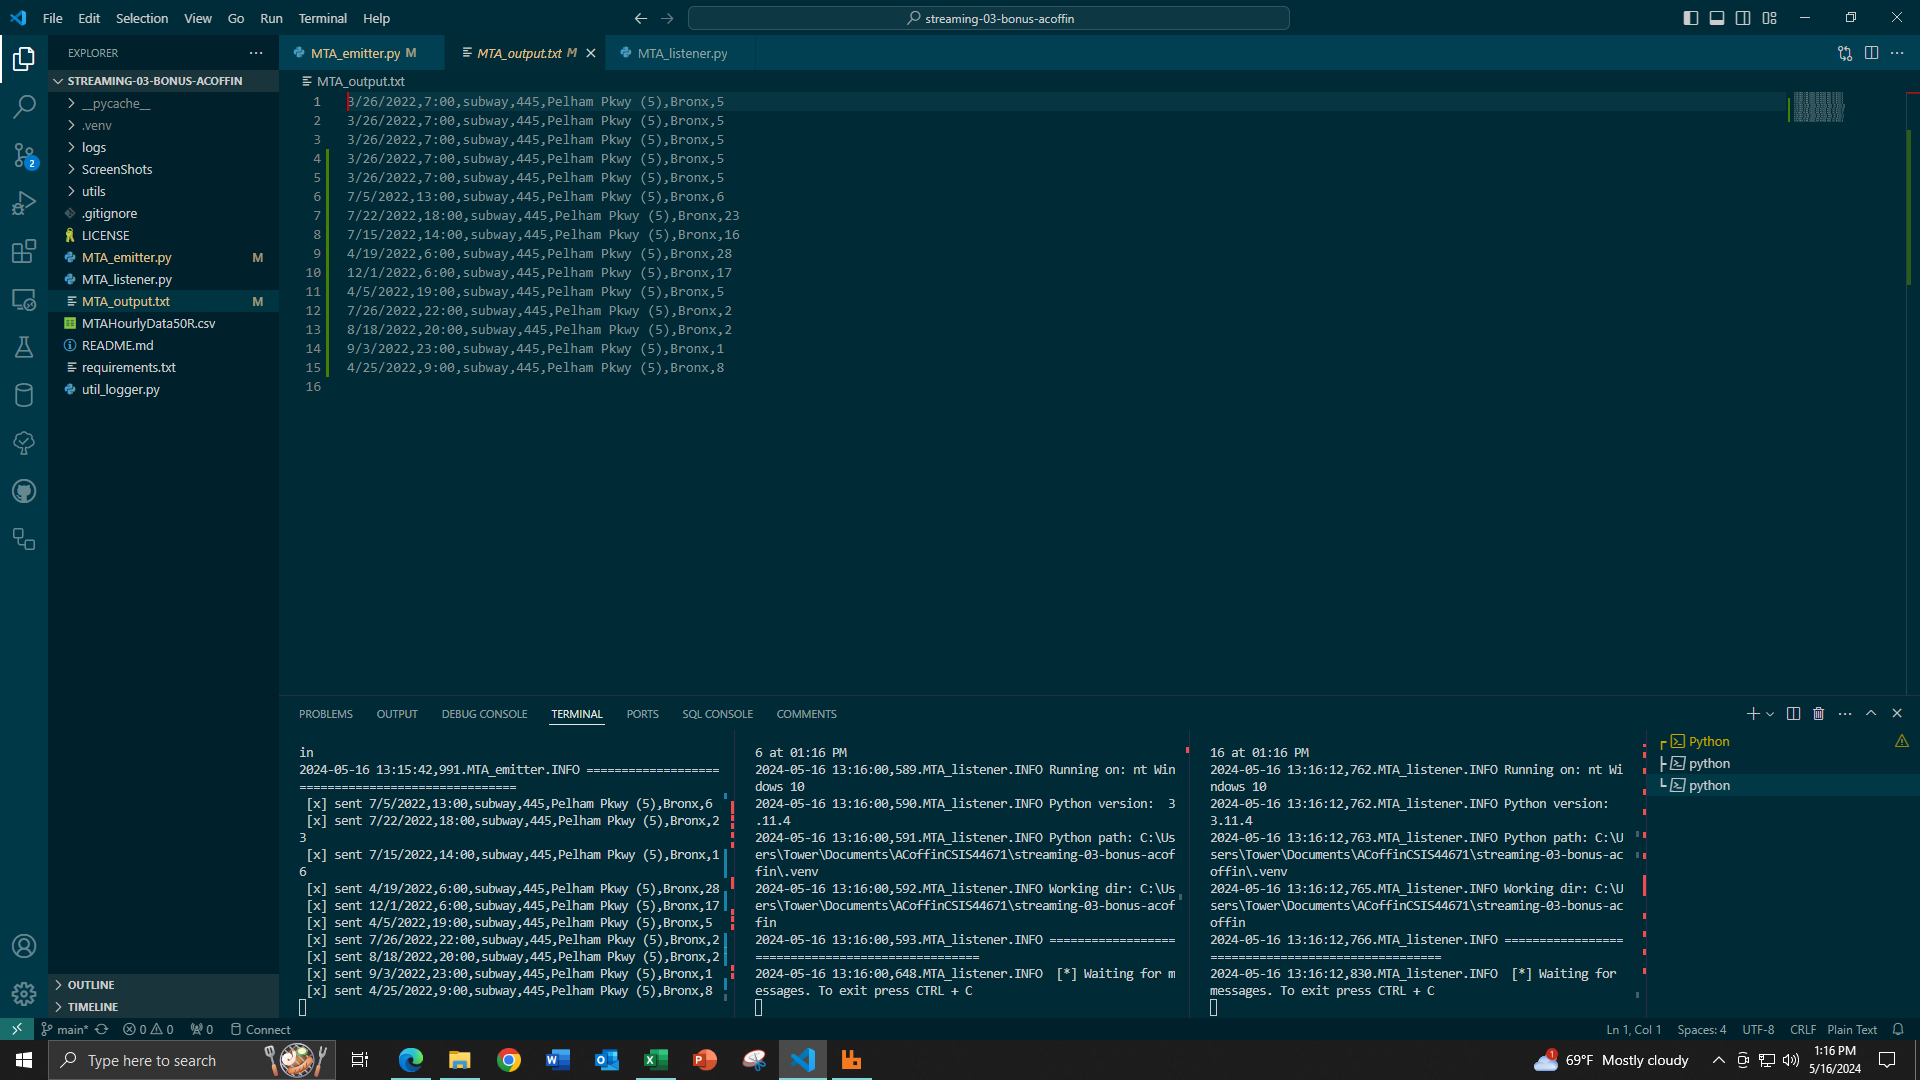
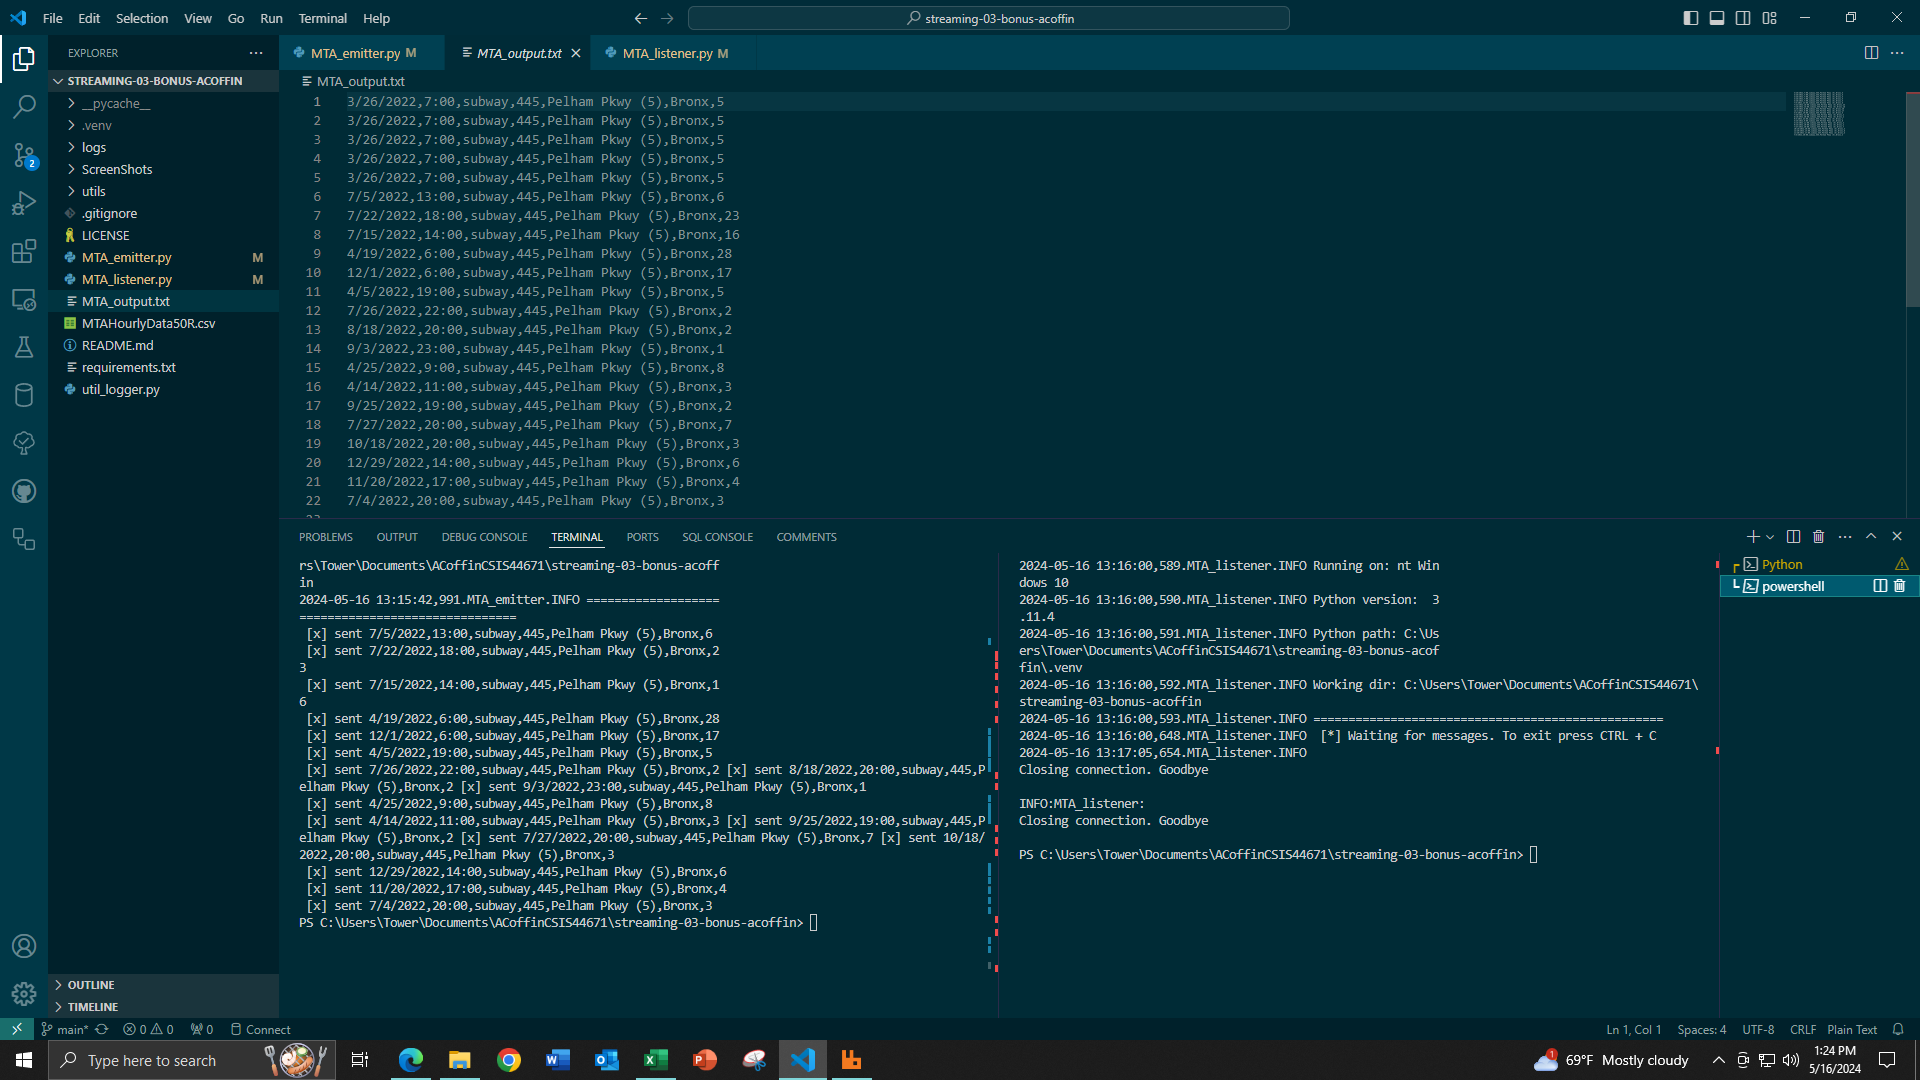
Added loop to MTA_emitter.py to stream csv

diff --git a/MTA_emitter.py b/MTA_emitter.py
@@ -4,7 +4,12 @@ May 2024
 
 Emitter designed to send a message to a queue on the RabbitMQ server. 
 Make sure the RabbitMQ server is on and connected.
-Run this and then run the listener.
+Run this and then run the listener. 
+--
+
+This emitter contains a loop that will run through all 50 entries in the MTAHourlyData50R.csv file.
+The process can be interrupted using CTRL+C if an escape is needed. 
+
 """
 
 import pika
@@ -47,7 +52,9 @@ def send_message(ns: str = "localhost"):
 
         # Declaring the queue
         ch.queue_declare(queue="MTA_task", durable=True)
+        # Creates a loop to emitt more than one message from the csv
         while True: 
+            # Pulls data from the csv file and creates strings that can be read.
             for message in stream_row('MTAHourlyData50R.csv'):
                 MTAData = ','.join(message)
                 # Converting Data to a string

diff --git a/MTA_listener.py b/MTA_listener.py
@@ -4,6 +4,14 @@ May 2024
 
 Listener Developed for MTA Data using RabbitMQ.
 Always Transmit in one terminal and recieve in the other. 
+---
+
+This file will output a seperate file MTA_output.txt which cntains all of the transmission data sent from the emitter file.
+These will continue unless interupted using CNTL+C, because the emitter contains a loop for all 50 lines from the csv file. 
+If you wish to have unique outputs for each code run, change:
+
+output_file_name = "MTA_out.txt" 
+
 
 """
 
